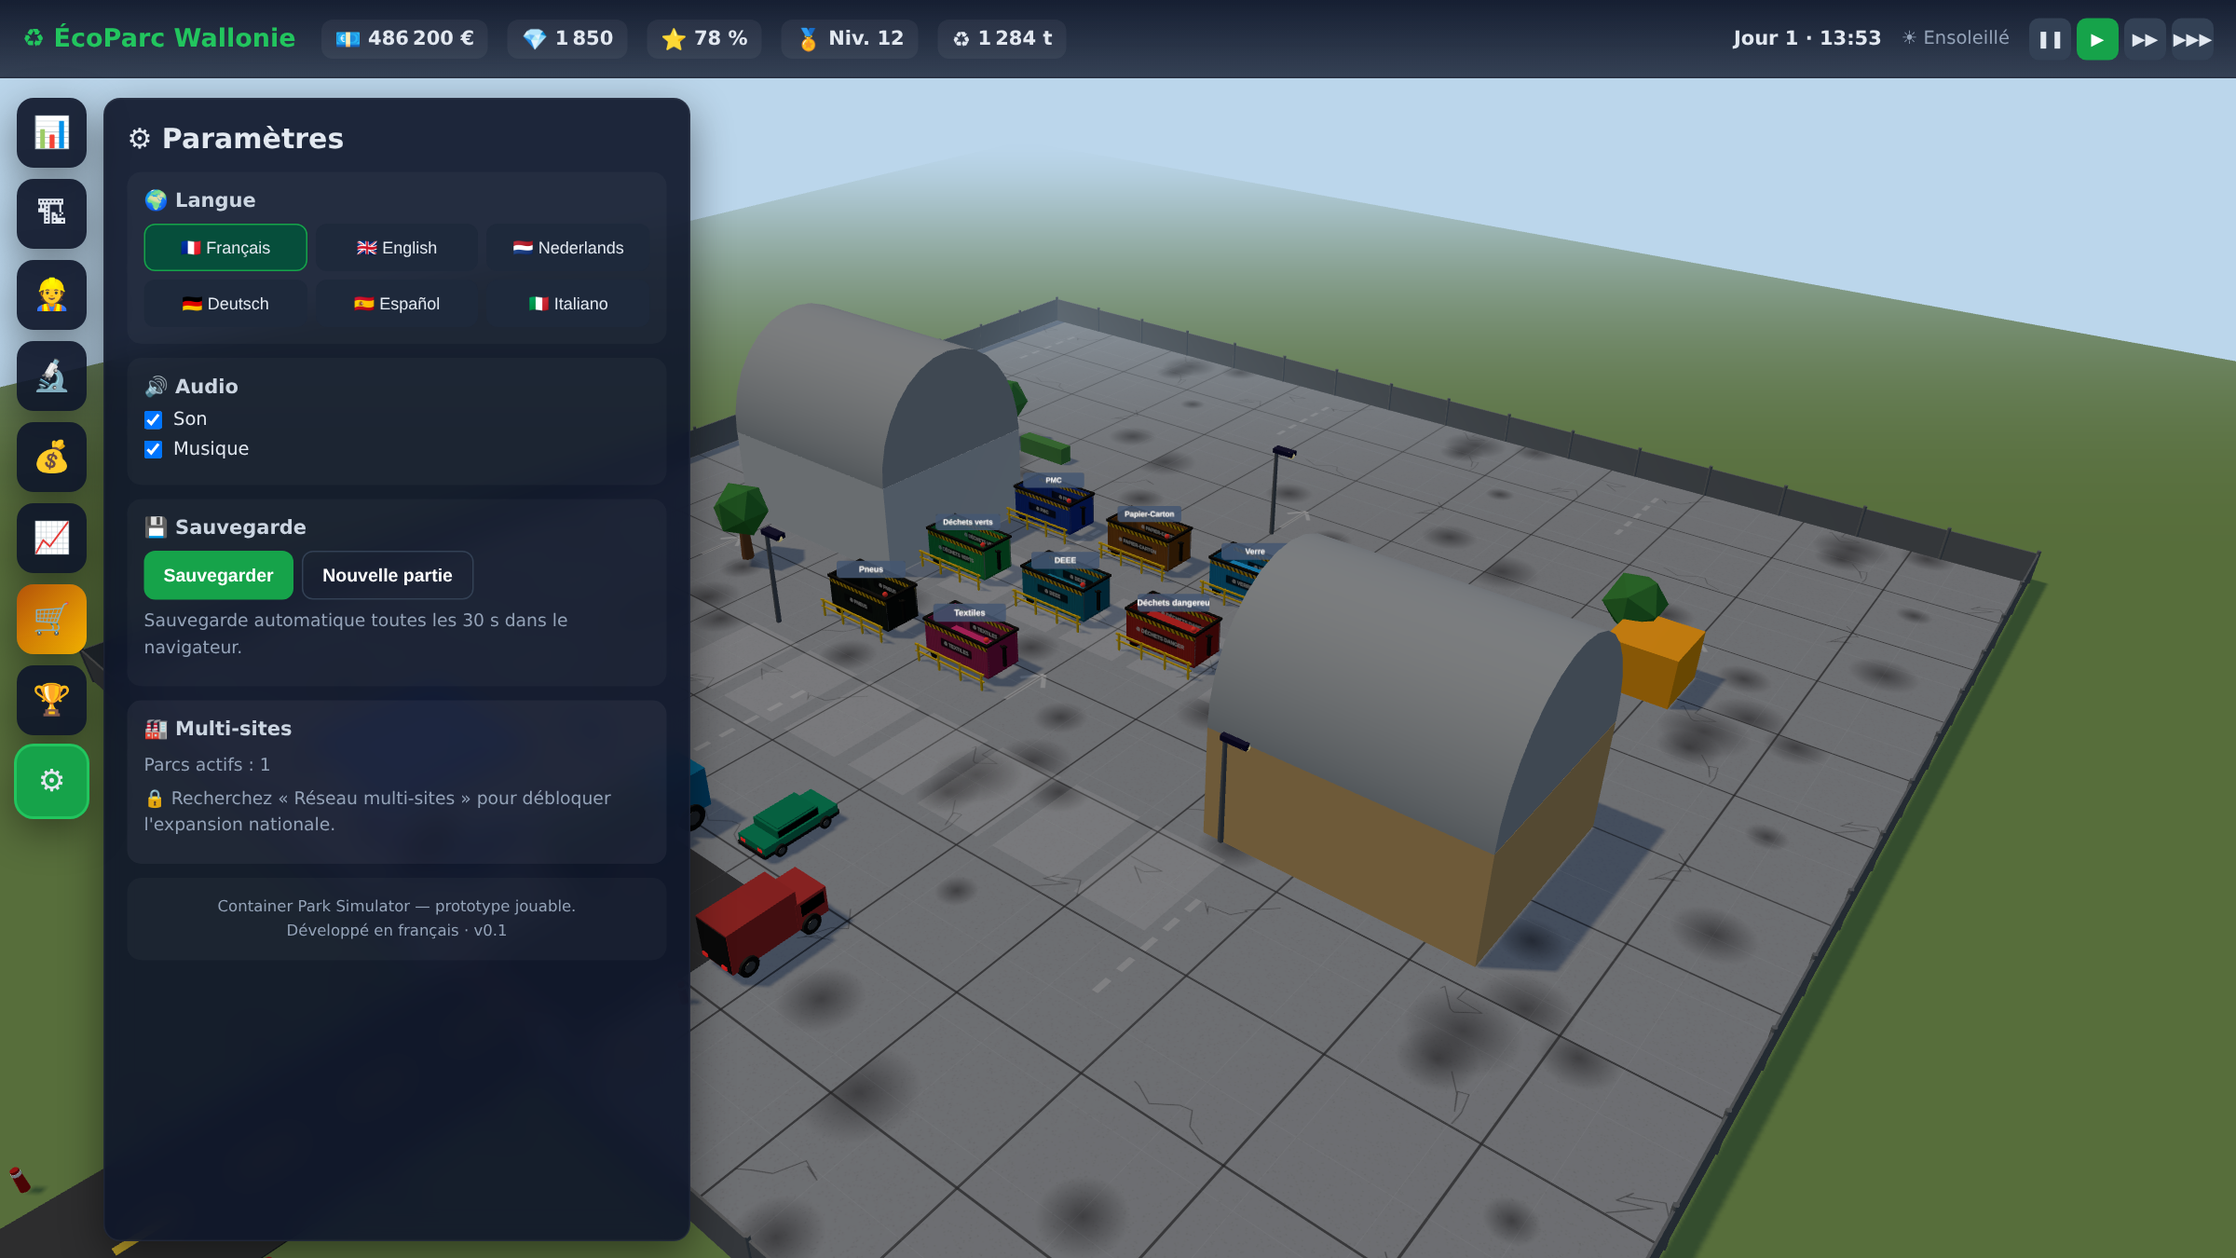
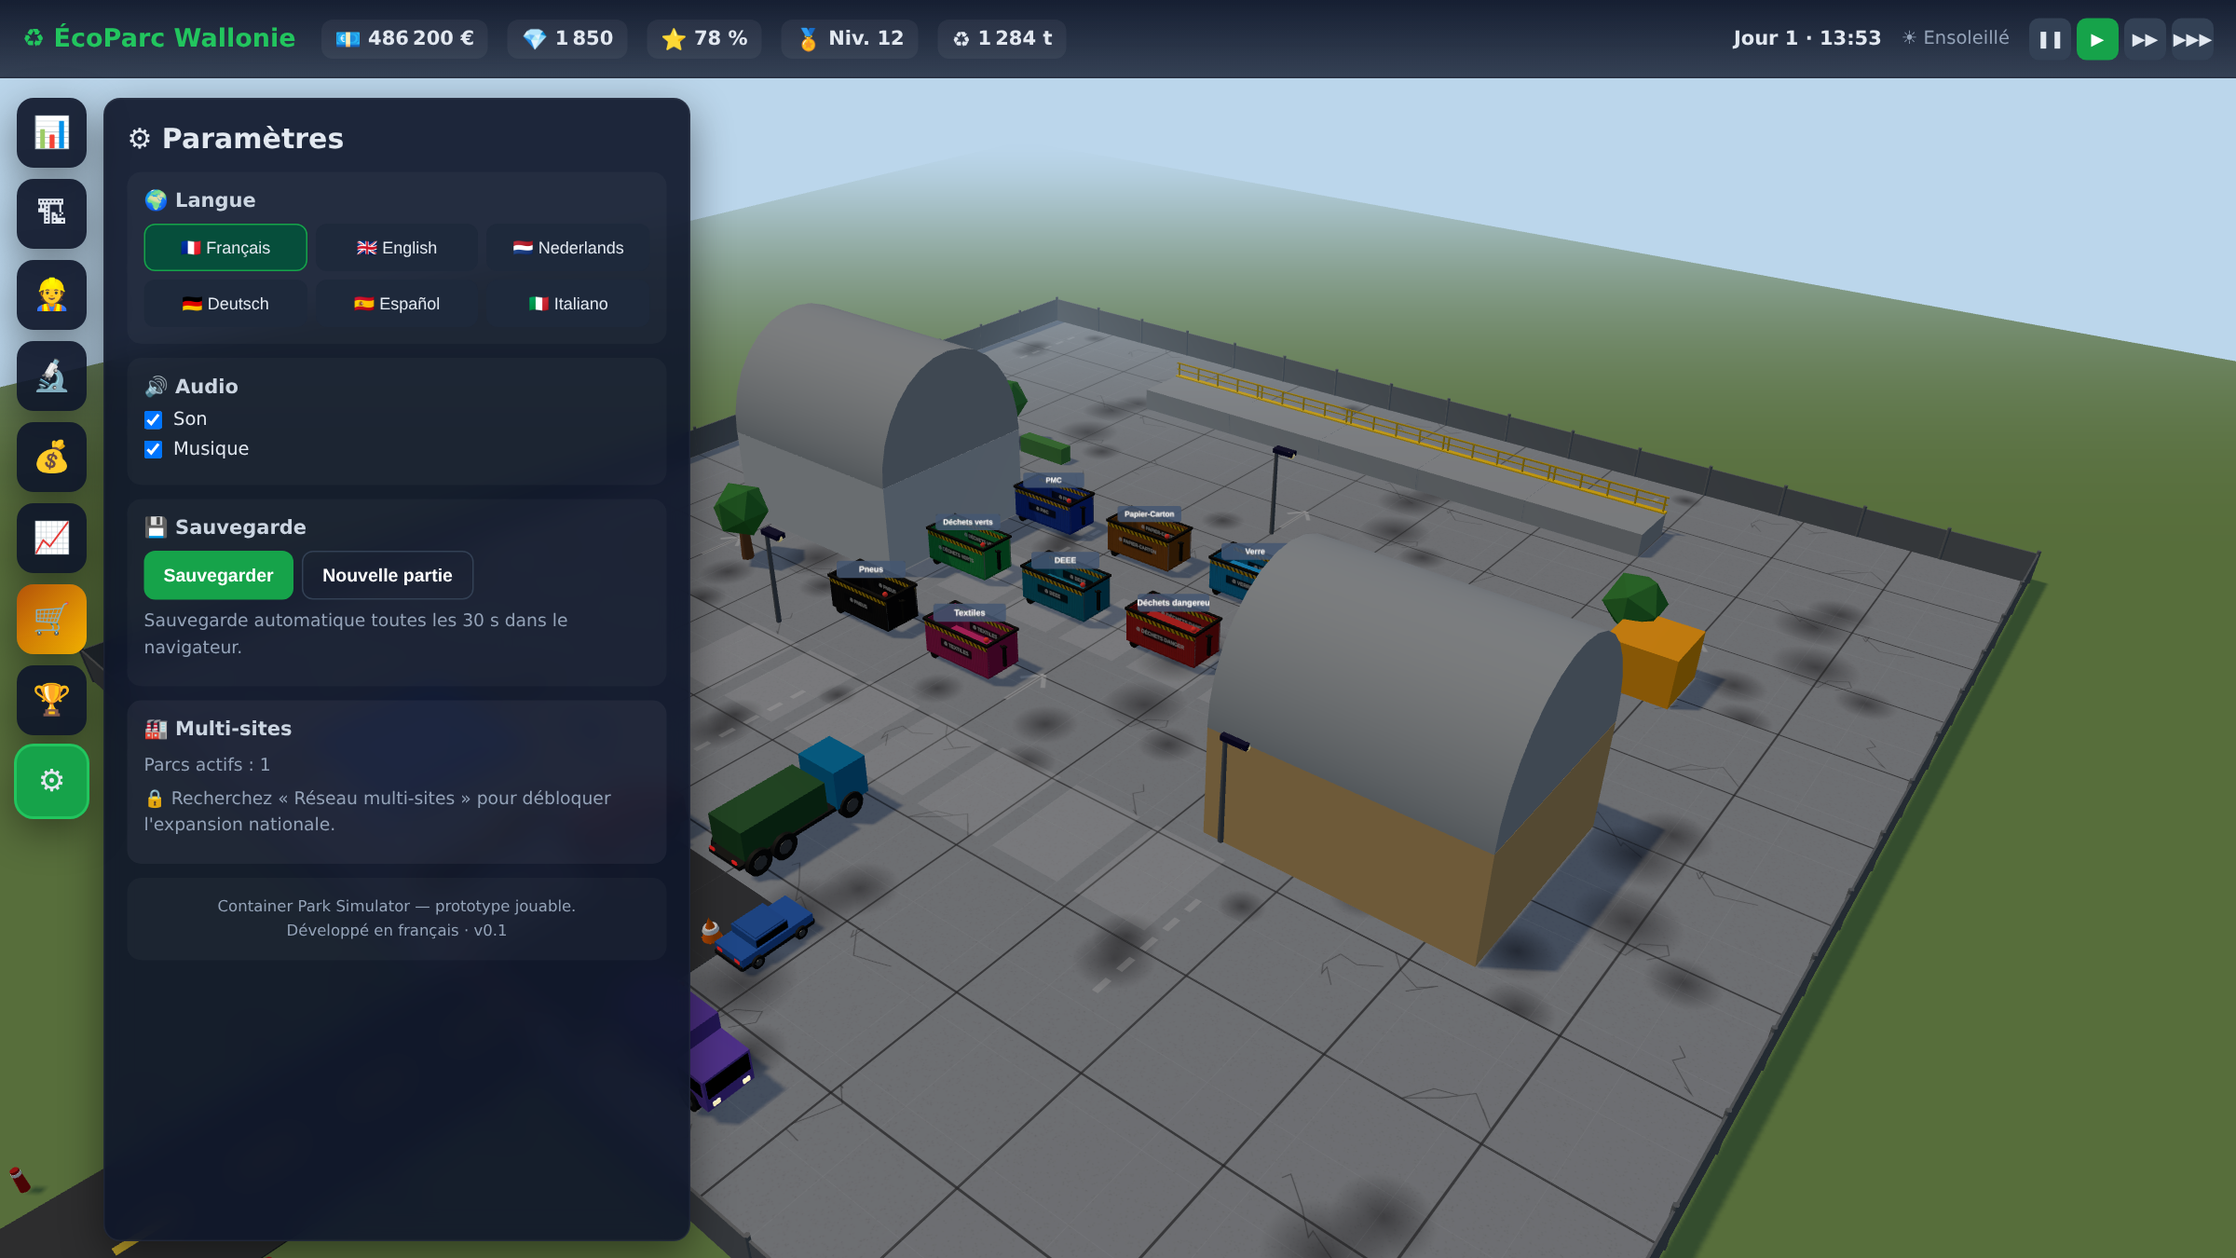
Couleurs de bennes par fraction, quai surélevé, personnages & vidage ampliroll
Point 1 — Couleurs franches par fraction (bleu PMC, vert, rouge dangereux,
brun papier, jaune bois, gris encombrants…) au lieu d'un vert uniforme.

Point 2 — Quai surélevé avec mur de soutènement + garde-corps derrière la
rangée (remplace la rambarde par-benne), conforme à la photo de référence ;
'quai' aussi constructible.

Point 3 — Personnages bas-poly : les visiteurs descendent et jettent leurs
déchets (bras animés) ; camion ampliroll de service qui arrive, lève son bras
articulé et bascule la benne lors du vidage (déclenché à l'évacuation).

+ captures régénérées (dont maquette-13-vidage).

diff --git a/src/scene3d.js b/src/scene3d.js
@@ -19,6 +19,7 @@ export class Scene3D {
     this.parkingSlots = [];        // { pos, busy }
     this.clock = new THREE.Clock();
     this.smoke = [];               // panaches (incendie)
+    this.emptyAnims = [];          // séquences de vidage (camion ampliroll)
     this._initRenderer();
     this._initScene();
     this._initLights();
@@ -131,6 +132,12 @@ export class Scene3D {
     [['cone', -6, GROUND / 2 - 3], ['cone', 6, GROUND / 2 - 3], ['cone', -3, GROUND / 2 - 9], ['cone', 3, GROUND / 2 - 9]]
       .forEach(([t, x, z]) => { const m = this._makeBuildingMesh(t); m.position.set(x, 0, z); this.scene.add(m); });
     const sign = this._makeBuildingMesh('panneau'); sign.position.set(-12, 0, GROUND / 2 - 13); sign.rotation.y = 0.4; this.scene.add(sign);
+
+    // Quai surélevé fixe (mur de soutènement) au fond du parc, comme en recyparc :
+    // les usagers s'y garent en hauteur et basculent leurs déchets dans les bennes.
+    for (let x = -16; x <= 16; x += 8) {
+      const q = this._makeBuildingMesh('quai'); q.position.set(x, 0, -GROUND / 2 + 8); q.rotation.y = Math.PI; this.scene.add(q);
+    }
   }
 
   _buildBarrier(x, z) {
@@ -218,8 +225,8 @@ export class Scene3D {
   _makeContainerMesh(fraction) {
     const grp = new THREE.Group();
     const base = new THREE.Color((FRACTIONS[fraction] && FRACTIONS[fraction].color) || '#2f6b3a');
-    // teinte « acier peint » (assombrie vers le vert industriel)
-    const steel = base.clone().lerp(new THREE.Color('#13351f'), 0.22);
+    // teinte « acier peint » : couleur de fraction franche, juste assombrie
+    const steel = base.clone().multiplyScalar(0.88);
     const mat = new THREE.MeshStandardMaterial({ color: steel, metalness: 0.55, roughness: 0.5 });
     const dark = new THREE.MeshStandardMaterial({ color: steel.clone().multiplyScalar(0.72), metalness: 0.55, roughness: 0.55 });
     const black = new THREE.MeshStandardMaterial({ color: 0x141414, metalness: 0.5, roughness: 0.6 });
@@ -249,15 +256,6 @@ export class Scene3D {
     // galets/roues arrière (-X) caractéristiques du roll-off
     const roller = new THREE.Mesh(new THREE.CylinderGeometry(0.26, 0.26, W * 0.9, 12), black);
     roller.rotation.x = Math.PI / 2; roller.position.set(-L / 2 + 0.4, 0.26, 0); grp.add(roller);
-    // rambarde de sécurité le long du quai d'accès (+Z), comme en recyparc
-    const railMat = new THREE.MeshStandardMaterial({ color: 0xf4c20d, metalness: 0.3, roughness: 0.6 });
-    const rZ = W / 2 + 0.6;
-    const railTop = new THREE.Mesh(new THREE.BoxGeometry(L + 0.5, 0.1, 0.1), railMat); railTop.position.set(0, 1.05, rZ); railTop.castShadow = true; grp.add(railTop);
-    const railMid = new THREE.Mesh(new THREE.BoxGeometry(L + 0.5, 0.08, 0.08), railMat); railMid.position.set(0, 0.62, rZ); grp.add(railMid);
-    for (const px of [-1, -0.34, 0.34, 1]) {
-      const post = new THREE.Mesh(new THREE.BoxGeometry(0.1, 1.15, 0.1), railMat);
-      post.position.set(px * (L / 2 + 0.05), 0.55, rZ); post.castShadow = true; grp.add(post);
-    }
     // matière à l'intérieur (jauge de remplissage, visible par le dessus ouvert)
     const fill = new THREE.Mesh(new THREE.BoxGeometry(L - 0.4, 1, W - 0.4),
       new THREE.MeshStandardMaterial({ color: base.clone().multiplyScalar(0.85), roughness: 1, flatShading: true }));
@@ -372,6 +370,20 @@ export class Scene3D {
         const top = new THREE.Mesh(new THREE.BoxGeometry(4, 0.1, 0.1), m); top.position.y = 1.05; top.castShadow = true; grp.add(top);
         const mid = new THREE.Mesh(new THREE.BoxGeometry(4, 0.08, 0.08), m); mid.position.y = 0.62; grp.add(mid);
         for (const px of [-1, -0.33, 0.33, 1]) { const p = new THREE.Mesh(new THREE.BoxGeometry(0.1, 1.15, 0.1), m); p.position.set(px * 2, 0.55, 0); grp.add(p); } break;
+      }
+      case 'quai': {
+        // Quai surélevé : plateforme béton + mur de soutènement + garde-corps (côté +Z)
+        const concrete = new THREE.MeshStandardMaterial({ color: 0x9a9ea3, roughness: 0.95 });
+        const plat = new THREE.Mesh(new THREE.BoxGeometry(8, 1.6, 4), concrete);
+        plat.position.set(0, 0.8, -2); plat.castShadow = true; plat.receiveShadow = true; grp.add(plat);
+        // bordure jaune anti-chute au bord avant (+Z)
+        const kerb = new THREE.Mesh(new THREE.BoxGeometry(8, 0.18, 0.4), new THREE.MeshStandardMaterial({ color: 0xf4c20d })); kerb.position.set(0, 1.6, 0); grp.add(kerb);
+        // garde-corps le long du bord avant
+        const m = new THREE.MeshStandardMaterial({ color: 0xf4c20d, metalness: 0.3, roughness: 0.6 });
+        const top = new THREE.Mesh(new THREE.BoxGeometry(8, 0.1, 0.1), m); top.position.set(0, 2.7, 0); top.castShadow = true; grp.add(top);
+        const mid = new THREE.Mesh(new THREE.BoxGeometry(8, 0.08, 0.08), m); mid.position.set(0, 2.2, 0); grp.add(mid);
+        for (const px of [-1, -0.5, 0, 0.5, 1]) { const p = new THREE.Mesh(new THREE.BoxGeometry(0.1, 1.2, 0.1), m); p.position.set(px * 3.8, 2.1, 0); p.castShadow = true; grp.add(p); }
+        break;
       }
       default: {
         const b = new THREE.Mesh(new THREE.BoxGeometry(3, 3, 3), wall(0x9aa0a6)); b.position.y = 1.5; grp.add(b);
@@ -535,7 +547,7 @@ export class Scene3D {
     if (ent.state === 'enter' || ent.state === 'leaving' || ent.state === 'exit') {
       const target = ent.waypoints[ent.wpIndex];
       if (!target) {
-        if (ent.state === 'enter') { ent.state = 'unload'; ent.unloadTimer = 2.5 + Math.random() * 2; }
+        if (ent.state === 'enter') { ent.state = 'unload'; ent.unloadTimer = 2.5 + Math.random() * 2; this._spawnVisitorCharacter(ent); }
         else { this._despawn(ent); }
         return;
       }
@@ -551,8 +563,15 @@ export class Scene3D {
       ent.unloadTimer -= dt;
       // petite secousse de déchargement
       m.position.y = Math.sin(performance.now() / 90) * 0.04;
+      // animation du personnage : il jette ses déchets (bras qui balancent)
+      if (ent.character) {
+        const a = performance.now() / 130;
+        ent.character.userData.arms.forEach((arm, i) => { arm.rotation.x = -0.4 + Math.sin(a + i * Math.PI) * 1.3; });
+        ent.character.position.y = Math.abs(Math.sin(a)) * 0.04;
+      }
       if (ent.unloadTimer <= 0) {
         m.position.y = 0;
+        if (ent.character) { this.scene.remove(ent.character); ent.character = null; }
         if (ent.callbacks.onUnload) ent.callbacks.onUnload(ent.visitor);
         this._spawnDropPile(m.position, ent.visitor);
         ent.state = 'exit';
@@ -576,9 +595,39 @@ export class Scene3D {
 
   _despawn(ent) {
     this.scene.remove(ent.mesh);
+    if (ent.character) { this.scene.remove(ent.character); ent.character = null; }
     if (ent.slot) ent.slot.busy = false;
     if (ent.callbacks.onLeave) ent.callbacks.onLeave(ent.visitor);
     this.vehicles = this.vehicles.filter(v => v !== ent);
+  }
+
+  // Petit personnage bas-poly (visiteur qui décharge à côté de son véhicule)
+  _spawnVisitorCharacter(ent) {
+    const g = this._makeCharacter();
+    const p = ent.mesh.position;
+    g.position.set(p.x + (ent.visitor.vehicle.w / 2 + 0.8), 0, p.z - 0.5);
+    this.scene.add(g);
+    ent.character = g;
+  }
+
+  _makeCharacter() {
+    const g = new THREE.Group();
+    const cloth = new THREE.Color().setHSL(Math.random(), 0.5, 0.45);
+    const shirt = new THREE.MeshStandardMaterial({ color: cloth });
+    const pants = new THREE.MeshStandardMaterial({ color: 0x2a3550 });
+    const skin = new THREE.MeshStandardMaterial({ color: 0xe0b48c });
+    const hairCols = [0x3b2a1a, 0x111111, 0x6b4226, 0x999999];
+    const hair = new THREE.MeshStandardMaterial({ color: hairCols[Math.floor(Math.random() * hairCols.length)] });
+    const torso = new THREE.Mesh(new THREE.BoxGeometry(0.42, 0.55, 0.26), shirt); torso.position.y = 1.05; torso.castShadow = true; g.add(torso);
+    const head = new THREE.Mesh(new THREE.SphereGeometry(0.16, 10, 10), skin); head.position.y = 1.46; head.castShadow = true; g.add(head);
+    const cap = new THREE.Mesh(new THREE.SphereGeometry(0.165, 10, 10, 0, 7, 0, 1.3), hair); cap.position.y = 1.48; g.add(cap);
+    const legL = new THREE.Mesh(new THREE.BoxGeometry(0.16, 0.62, 0.18), pants); legL.position.set(-0.1, 0.46, 0); legL.castShadow = true; g.add(legL);
+    const legR = legL.clone(); legR.position.x = 0.1; g.add(legR);
+    const armGeo = new THREE.BoxGeometry(0.12, 0.52, 0.12); armGeo.translate(0, -0.26, 0);
+    const armL = new THREE.Mesh(armGeo, shirt); armL.position.set(-0.27, 1.28, 0); g.add(armL);
+    const armR = new THREE.Mesh(armGeo.clone(), shirt); armR.position.set(0.27, 1.28, 0); g.add(armR);
+    g.userData.arms = [armL, armR];
+    return g;
   }
 
   // --- Petits effets ----------------------------------------------------------
@@ -605,6 +654,80 @@ export class Scene3D {
     anim();
   }
 
+  // --- Camion ampliroll de service (bras articulé) qui vient vider une benne --
+  _makeServiceTruck() {
+    const grp = new THREE.Group();
+    const paint = new THREE.MeshStandardMaterial({ color: 0xf59e0b, metalness: 0.5, roughness: 0.4 });
+    const trim = new THREE.MeshStandardMaterial({ color: 0x15171a, roughness: 0.7, metalness: 0.3 });
+    const chrome = new THREE.MeshStandardMaterial({ color: 0xccd2d8, metalness: 0.9, roughness: 0.25 });
+    const glass = new THREE.MeshStandardMaterial({ color: 0x0d1722, metalness: 0.9, roughness: 0.08 });
+    const steel = new THREE.MeshStandardMaterial({ color: 0x333a44, metalness: 0.6, roughness: 0.5 });
+    const W = 2.5, L = 8, H = 3.0, r = 0.7;
+    const cab = new THREE.Mesh(new THREE.BoxGeometry(W, H * 0.66, L * 0.22), paint); cab.position.set(0, r + H * 0.33, L * 0.36); cab.castShadow = true; grp.add(cab);
+    const ws = new THREE.Mesh(new THREE.BoxGeometry(W * 0.9, H * 0.34, 0.08), glass); ws.position.set(0, r + H * 0.45, L * 0.46); grp.add(ws);
+    const chassis = new THREE.Mesh(new THREE.BoxGeometry(W * 0.9, 0.3, L * 0.72), trim); chassis.position.set(0, r, -L * 0.08); grp.add(chassis);
+    // bras ampliroll articulé (pivote autour de l'arrière du châssis)
+    const arm = new THREE.Group();
+    const a1 = new THREE.Mesh(new THREE.BoxGeometry(0.22, 0.22, L * 0.5), steel); a1.position.set(0, 0, L * 0.2); arm.add(a1);
+    const a2 = new THREE.Mesh(new THREE.BoxGeometry(0.2, 1.7, 0.2), steel); a2.position.set(0, 0.85, L * 0.42); arm.add(a2);
+    const hook = new THREE.Mesh(new THREE.TorusGeometry(0.2, 0.05, 6, 10, Math.PI), chrome); hook.rotation.x = Math.PI / 2; hook.position.set(0, 1.6, L * 0.42); arm.add(hook);
+    arm.position.set(0, r + 0.35, -L * 0.32); grp.add(arm); grp.userData.arm = arm;
+    const addWheel = (x, z) => {
+      const t = new THREE.Mesh(new THREE.CylinderGeometry(r, r, 0.34, 16), trim); t.rotation.z = Math.PI / 2; t.position.set(x, r, z); t.castShadow = true; grp.add(t);
+      const h = new THREE.Mesh(new THREE.CylinderGeometry(r * 0.5, r * 0.5, 0.36, 8), chrome); h.rotation.z = Math.PI / 2; h.position.set(x, r, z); grp.add(h);
+    };
+    for (const z of [L * 0.34, -L * 0.16, -L * 0.34]) { addWheel(W / 2 - 0.05, z); addWheel(-W / 2 + 0.05, z); }
+    for (const sx of [-1, 1]) { const hl = new THREE.Mesh(new THREE.BoxGeometry(0.3, 0.18, 0.07), new THREE.MeshStandardMaterial({ color: 0xfff6d5, emissive: 0xfff0b0, emissiveIntensity: 0.8 })); hl.position.set(sx * W * 0.32, r + 0.3, L * 0.47); grp.add(hl); }
+    // gyrophare orange
+    const beacon = new THREE.Mesh(new THREE.SphereGeometry(0.12, 8, 8), new THREE.MeshStandardMaterial({ color: 0xff8800, emissive: 0xff7700, emissiveIntensity: 1 }));
+    beacon.position.set(0, r + H * 0.66, L * 0.28); grp.add(beacon);
+    grp.userData.kind = 'service';
+    return grp;
+  }
+
+  // Lance la séquence : un camion arrive, lève son bras, bascule la benne, repart.
+  playEmptyAnimation(containerId) {
+    const cont = this.containers.get(containerId);
+    if (!cont) return;
+    if (this.emptyAnims.some(a => a.containerId === containerId)) return;
+    const truck = this._makeServiceTruck();
+    truck.position.set(0, 0, GROUND / 2 + 30);
+    this.scene.add(truck);
+    // se gare côté crochet de la benne (-X), face à elle
+    const target = new THREE.Vector3(cont.position.x - 6.5, 0, cont.position.z);
+    this.emptyAnims.push({ containerId, truck, cont, phase: 'in', t: 0, target, baseRot: cont.rotation.z });
+  }
+
+  _stepEmptyAnims(dt) {
+    const speed = 13;
+    for (const a of [...this.emptyAnims]) {
+      const { truck, cont } = a;
+      if (a.phase === 'in' || a.phase === 'out') {
+        let target = a.phase === 'in' ? a.target : (a.wp && a.wp[a.wi]);
+        if (a.phase === 'out' && !target) { this.scene.remove(truck); this.emptyAnims = this.emptyAnims.filter(x => x !== a); continue; }
+        const dir = target.clone().sub(truck.position); dir.y = 0; const d = dir.length();
+        if (d < 0.6) { if (a.phase === 'in') { a.phase = 'tip'; a.t = 0; } else a.wi++; }
+        else { dir.normalize(); truck.position.addScaledVector(dir, Math.min(speed * dt, d)); truck.rotation.y += this._angleLerp(truck.rotation.y, Math.atan2(dir.x, dir.z)) * Math.min(1, dt * 5); }
+      } else if (a.phase === 'tip') {
+        a.t += dt; const k = Math.min(1, a.t / 1.0);
+        cont.rotation.z = a.baseRot - 0.85 * k;
+        truck.userData.arm.rotation.x = -0.95 * k;
+        if (k >= 1) { a.phase = 'hold'; a.t = 0; this._spawnDropPile(cont.position, { cargo: [{}] }); }
+      } else if (a.phase === 'hold') {
+        a.t += dt; if (a.t > 0.6) { a.phase = 'untip'; a.t = 0; }
+      } else if (a.phase === 'untip') {
+        a.t += dt; const k = Math.min(1, a.t / 0.8);
+        cont.rotation.z = a.baseRot - 0.85 * (1 - k);
+        truck.userData.arm.rotation.x = -0.95 * (1 - k);
+        if (k >= 1) {
+          cont.rotation.z = a.baseRot; truck.userData.arm.rotation.x = 0;
+          a.phase = 'out'; a.wi = 0;
+          a.wp = [new THREE.Vector3(truck.position.x, 0, GROUND / 2 - 4), new THREE.Vector3(0, 0, GROUND / 2 - 4), new THREE.Vector3(0, 0, GROUND / 2 + 30)];
+        }
+      }
+    }
+  }
+
   spawnFire(pos) {
     const grp = new THREE.Group();
     const light = new THREE.PointLight(0xff6622, 3, 20); light.position.set(0, 3, 0); grp.add(light);
@@ -626,7 +749,7 @@ export class Scene3D {
     if (this._skipTexCache[key]) return this._skipTexCache[key];
     const cv = document.createElement('canvas'); cv.width = 600; cv.height = 250;
     const ctx = cv.getContext('2d');
-    const base = new THREE.Color(hex).lerp(new THREE.Color('#173a22'), 0.2);
+    const base = new THREE.Color(hex).multiplyScalar(0.9);
     // fond
     ctx.fillStyle = '#' + base.getHexString(); ctx.fillRect(0, 0, 600, 250);
     // ondulations verticales (clair/sombre)
@@ -830,6 +953,7 @@ export class Scene3D {
   update(dt) {
     this.controls.update();
     for (const ent of [...this.vehicles]) this._stepVehicle(ent, dt);
+    this._stepEmptyAnims(dt);
     this._stepWeather(dt);
     this._updateLamps();
     // conteneurs pleins : gyrophare clignotant

diff --git a/src/data.js b/src/data.js
@@ -190,6 +190,7 @@ export const BUILDINGS = [
   { id: 'hangar',      name: 'Hangar de tri',       cost: 42000, cat: 'batiment',  icon: '🏭', desc: 'Abrite le tri (météo neutre).' },
   { id: 'entrepot',    name: 'Entrepôt',            cost: 35000, cat: 'batiment',  icon: '📦', desc: 'Stocke les matières valorisées.' },
   { id: 'zone_charge', name: 'Aire de chargement',  cost: 8000,  cat: 'batiment',  icon: '🚏', desc: 'Évacuation plus rapide.' },
+  { id: 'quai',        name: 'Quai surélevé',       cost: 12000, cat: 'batiment',  icon: '🧱', desc: 'Plateforme + mur de soutènement pour décharger dans les bennes.' },
   { id: 'poste_secu',  name: 'Poste de sécurité',   cost: 14000, cat: 'batiment',  icon: '🛂', desc: 'Réduit les incidents.' },
   { id: 'arbre',       name: 'Arbre',               cost: 300,   cat: 'deco',      icon: '🌳', desc: '+réputation environnementale.' },
   { id: 'haie',        name: 'Haie',                cost: 180,   cat: 'deco',      icon: '🌿', desc: 'Décoration verte.' },

diff --git a/src/game.js b/src/game.js
@@ -263,6 +263,7 @@ class Game {
     if (!c || c.fill <= 0) { this.ui.toast('Conteneur vide', 'info', 'ℹ'); return; }
     const res = Sys.emptyContainer(s, c);
     this.scene.updateContainerFill(c);
+    this.scene.playEmptyAnimation(c.id); // camion ampliroll vient basculer la benne
     this.audio.cash();
     const sign = res.net >= 0 ? '+' : '';
     this.ui.toast(`${FRACTIONS[c.fraction].name} évacué : <b>${sign}${res.net.toLocaleString('fr-BE')} €</b> (${res.tons.toFixed(1)} t)`, res.net >= 0 ? 'good' : 'warn', '💶');
